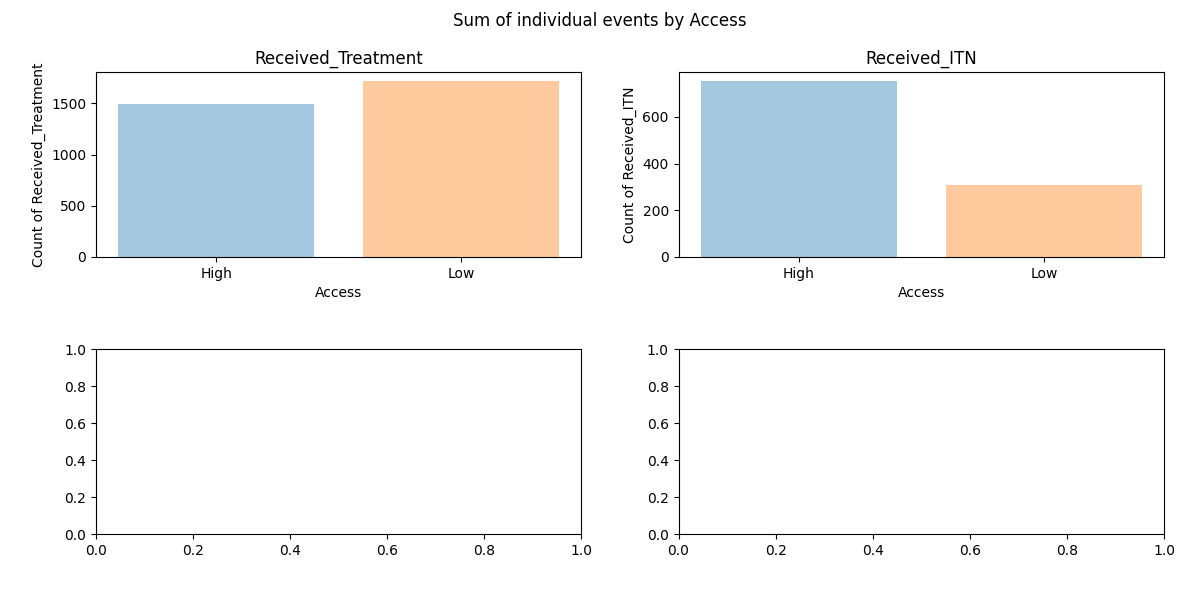
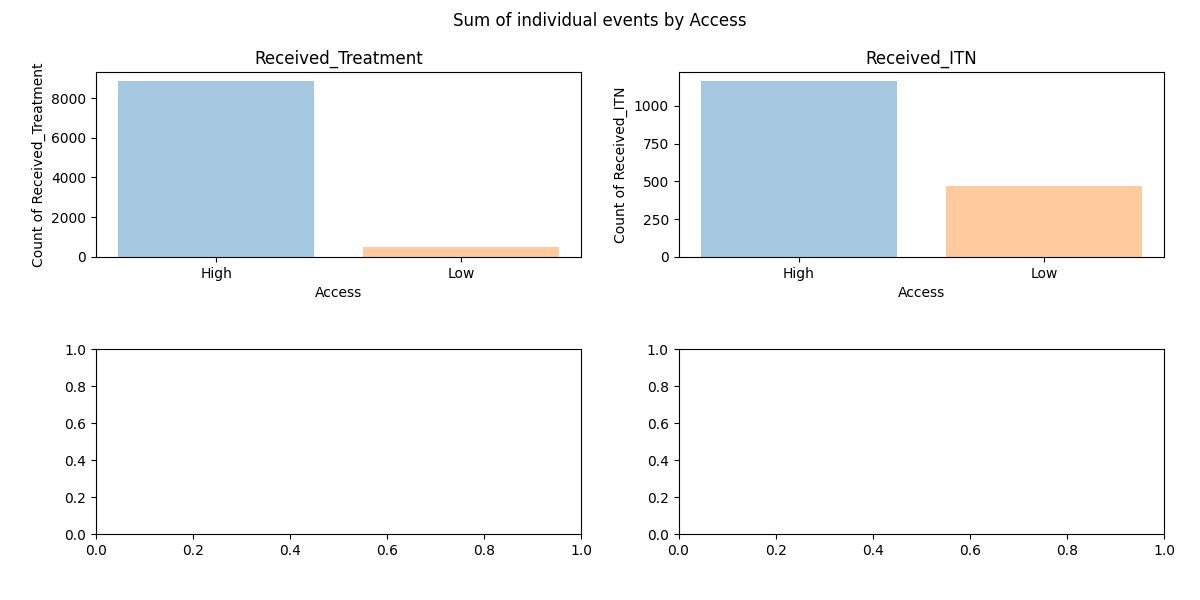
week 8 edits to readme (#13)

Changed region(s): [[0.0308, 0.12, 0.555, 0.42], [0.0308, 0.21, 0.0925, 0.3], [0.0308, 0.33, 0.0925, 0.39]]

diff --git a/analyze_exampleSim_w8.py b/analyze_exampleSim_w8.py
@@ -10,7 +10,7 @@ SetupParser.default_block = 'HPC'
 
 user = os.getlogin()  # user initials
 expt_name = f'{user}_FE_2022_example_w8b'
-expt_id = '048f5da6-6fda-ec11-a9f8-b88303911bc1'  ## change expt_id
+expt_id = '27cf3849-f1f2-ec11-a9f9-b88303911bc1'  ## change expt_id
 working_dir = os.path.join(os.getcwd(), 'simulation_outputs')
 
 
@@ -51,7 +51,7 @@ def plot_summary_report(sweep_variables, ip_name, ipfilter):
     df['date'] = df.apply(lambda x: datetime.date(int(x['year']), int(x['month']), 1), axis=1)
 
     # take mean over all Runs in report
-    df = df.groupby(['date', 'month', 'year'] + sweep_variables + ip_name)[channels_summary_report].agg(
+    df = df.groupby(['date', 'month', 'year'] + sweep_variables + [ip_name])[channels_summary_report].agg(
         np.mean).reset_index()
 
     # make summary report plot
@@ -75,37 +75,36 @@ def plot_summary_report(sweep_variables, ip_name, ipfilter):
     fig2.savefig(os.path.join(working_dir, expt_name, 'U5_IP_PfPR_ClinicalIncidence.png'))
 
 
-def plot_individual_events(event_list,ip_name, sweep_variables):
-    ip_name = ip_name[0]
-
+def plot_individual_events(event_list, ip_name, sweep_variables):
     # read in analyzed event data
     df = pd.read_csv(os.path.join(working_dir, expt_name, 'IndividualEvents_all_years.csv'))
     df = df.loc[df['Event_Name'].isin(event_list)]
 
     ## Filter to last year of simulation and one seed to reduce output
-    #df = df.loc[df['Time'] >= max(df['Time']) - 365]
-    df['date'] = df.apply( lambda x: datetime.date(int(x['Year']), 1, 1) + datetime.timedelta(x['Day'] - 1), axis=1)
+    # df = df.loc[df['Time'] >= max(df['Time']) - 365]
+    df['date'] = df.apply(lambda x: datetime.date(int(x['Year']), 1, 1) + datetime.timedelta(x['Day'] - 1), axis=1)
 
     # 'date'
-    adf = df.groupby(['Event_Name','Run_Number',ip_name] + sweep_variables )[['Individual_ID']].agg('count').reset_index().rename( columns={'Individual_ID': 'count'})
-    adf = adf.groupby(['Event_Name',ip_name] + sweep_variables)['count'].agg(np.mean).reset_index()
+    adf = df.groupby(['Event_Name', 'Run_Number', ip_name] + sweep_variables)[['Individual_ID']].agg(
+        'count').reset_index().rename(columns={'Individual_ID': 'count'})
+    adf = adf.groupby(['Event_Name', ip_name] + sweep_variables)['count'].agg(np.mean).reset_index()
     adf.sort_values(by=['count'])
 
     # make event plot
     fig3 = plt.figure('Events', figsize=(12, 3 * len(event_list)))
     fig3.subplots_adjust(hspace=0.5, left=0.08, right=0.97)
     fig3.suptitle(f'Sum of individual events by {ip_name}')
-    axes = [fig3.add_subplot(len(event_list), 2, x + 1) for x in range(len(event_list)*2)]
-    for ch, channel in enumerate(event_list) :
-        edf = adf.loc[adf['Event_Name']==channel]
+    axes = [fig3.add_subplot(len(event_list), 2, x + 1) for x in range(len(event_list) * 2)]
+    for ch, channel in enumerate(event_list):
+        edf = adf.loc[adf['Event_Name'] == channel]
         ax = axes[ch]
         ax.set_title(channel)
         ax.set_ylabel(f'Count of {channel}')
         ax.set_xlabel(f'Access')
-        for  ipval in adf[ip_name].unique():
-            pdf = edf.loc[edf[ip_name]==ipval]
+        for ipval in adf[ip_name].unique():
+            pdf = edf.loc[edf[ip_name] == ipval]
             if not pdf.empty:
-                ax.bar(pdf[ip_name].unique(), pdf['count'],  alpha=0.4)
+                ax.bar(pdf[ip_name].unique(), pdf['count'], alpha=0.4)
 
     fig3.savefig(os.path.join(working_dir, expt_name, 'Individual_Events.png'))
 
@@ -114,11 +113,12 @@ if __name__ == "__main__":
     SetupParser.init()
 
     sweep_variables = ['itn_coverage', 'Run_Number']
-    event_list = ['Received_Treatment','Received_ITN']
+    event_list = ['Received_Treatment', 'Received_ITN']
     channels_inset_chart = ['Statistical Population', 'New Clinical Cases', 'Adult Vectors', 'Infected']
-    ip_name = ['Access'] # takes single ip name only, otherwise needs to be dictionary
+    ip_name = 'Access'
     ipfilter = ['_accesslow', '_accesshigh']
 
+    start_year = 2020
     # analyzers to run
     analyzers = [
         InsetChartAnalyzer(expt_name=expt_name,
@@ -127,25 +127,24 @@ if __name__ == "__main__":
                            sweep_variables=sweep_variables),
         MonthlyPfPRAnalyzerU5(expt_name=expt_name,
                               working_dir=working_dir,
-                              start_year=2020,
-                              end_year=2021,
+                              start_year=start_year,
+                              end_year=start_year + 1,
                               sweep_variables=sweep_variables),
         MonthlyPfPRAnalyzerU5IP(expt_name=expt_name,
                                 working_dir=working_dir,
-                                start_year=2020,
-                                end_year=2021,
+                                start_year=start_year,
+                                end_year=start_year + 1,
                                 sweep_variables=sweep_variables,
                                 ipfilter='_accesslow'),
         MonthlyPfPRAnalyzerU5IP(expt_name=expt_name,
                                 working_dir=working_dir,
-                                start_year=2020,
-                                end_year=2021,
+                                start_year=start_year,
+                                end_year=start_year + 1,
                                 sweep_variables=sweep_variables,
                                 ipfilter='_accesshigh'),
         IndividualEventsAnalyzer(expt_name=expt_name,
                                  working_dir=working_dir,
-                                 start_year=2020,
-                                 #selected_year=2020,
+                                 start_year=start_year,
                                  sweep_variables=sweep_variables)
     ]
     am = AnalyzeManager(expt_id, analyzers=analyzers)

diff --git a/README.md b/README.md
@@ -1204,11 +1204,17 @@ EMOD How To's:
 
 ### Instructions
 
+#### PART I: Add IP's to demographics file
+
 <details><summary><span>Click here to expand</span></summary>
 <p>
 
+<<<<<<< HEAD
+- A new demographics file needs to be generated that defines individual properties.
+=======
 
 - First, a new demographics file needs to be generated that defines individual properties.
+>>>>>>> 60c24eb3b7fa52f17103b8c09b12d99fb3f2926a
 - Modify  `python generate_input_files.py` as instructed below:
   - add a function that takes existing demographics json file and add individual properties to it
     in this example, we group individuals into a high and a low access group.
@@ -1249,20 +1255,44 @@ EMOD How To's:
     ```
 - Run `python generate_input_files.py` to generate the new demographics json file `Ghana_demographics_wIP.json`, and inspect the file to check whether the IP's were successfully added.
   - Optional, do the same for the Ghana demographics    
-- Just having the IPs included in the demographics won't have any effect on the simulation if interventions or campaigns do not distinguish individuals by their properties!
-- Copy and rename both simulation scripts from the previous week, from week 7 to week 8, in addition a couple of modifications are required as instructed below:
-- __In both simulation scripts (burnin + pickup):__
+- Copy and rename both simulation scripts from week 7 to `run_exampleSim_w8a.py` and `run_exampleSim_w8b.py`
+- __In both simulation scripts:__
   - set `Disable_IP_Whitelist` to 1 (if not already set at 1)
     ```py
     cb.update_params({'Disable_IP_Whitelist' : 1})
     ```
-    _Reminder, you can look into the config.json file to see the default parameters and their values_
-  - update the demographics filename in `cb.update_params({
+  - Update the demographics filename in `cb.update_params({
     'Demographics_Filenames': [os.path.join('Namawala', 'Namawala_single_node_demographics.json')],` to read in `Namawala_single_node_demographics_wIP.json`
-  - Change exp_name to week 8 to keep track of simulations + weeks
-- __In burnin script__:
-  - No additional changes, you can already submit it to run 
-- __In pickup script__:
+  - Change `exp_name` to week 8 to keep track of simulations + weeks
+- Submit burnin experiment to run
+
+<details><summary><span>Check results</span></summary>
+<p>
+
+
+The new demographics file should include the text chunk shown below:
+
+
+![img](static/w8_IP_demographics_chunk.png)
+
+
+</p>
+</details>
+
+
+</p>
+</details>
+
+
+
+#### PART II: Account for IP's in intervention and reports
+
+<details><summary><span>Click here to expand</span></summary>
+<p>
+
+_Note: Having the IPs included in the demographics won't have any effect on the simulation if interventions or campaigns do not distinguish individuals by their properties._
+
+- Modify the `run_exampleSim_w8b.py` script:
   - Add a helper function to re-calculate coverage depending on access group
   - Modify the interventions (i.e.add_ITN) to customize coverage levels for low versus high access groups.
     - duplicate the `add_ITN` within the def `itn_intervention` function
@@ -1313,73 +1343,75 @@ EMOD How To's:
     ```
     </p>
     </details>
-  - add case management (see Week 3 for adding interventions)  
-    <details><summary><span>view modified case_management function</span></summary>
-    <p>
+    - add case management (see Week 3 for adding interventions)  
+      <details><summary><span>view modified case_management function</span></summary>
+      <p>
     
-    ```py
-    def case_management(cb, cm_cov_U5=0.7, cm_cov_adults=0.5, cm_cov_severe=0.85):
-        ## Assume high access group = 0.5 of total population
-        if cm_cov_U5 > 0.5:
-            cm_cov_U5_high = 1
-            cm_cov_U5_low = (cm_cov_U5 - 0.5) / (1 - 0.5)
-        else:
-            cm_cov_U5_low = 0
-            cm_cov_U5_high = cm_cov_U5 / 0.5
-        ## Optionally, depending on assumptions, do same for cm_cov_adults and cm_cov_severe
+      ```py
+      def case_management(cb, cm_cov_U5=0.7, cm_cov_adults=0.5, cm_cov_severe=0.85):
+          ## Assume high access group = 0.5 of total population
+          if cm_cov_U5 > 0.5:
+              cm_cov_U5_high = 1
+              cm_cov_U5_low = (cm_cov_U5 - 0.5) / (1 - 0.5)
+          else:
+              cm_cov_U5_low = 0
+              cm_cov_U5_high = cm_cov_U5 / 0.5
+          ## Optionally, depending on assumptions, do same for cm_cov_adults and cm_cov_severe
     
-        add_health_seeking(cb, start_day=0,
-                           targets=[{'trigger': 'NewClinicalCase', 'coverage': cm_cov_U5_low,
-                                     'agemin': 0, 'agemax': 5, 'seek': 1, 'rate': 0.3},
-                                    {'trigger': 'NewClinicalCase', 'coverage': cm_cov_adults,
-                                     'agemin': 5, 'agemax': 100, 'seek': 1, 'rate': 0.3},
-                                    {'trigger': 'NewSevereCase', 'coverage': cm_cov_severe,
-                                     'agemin': 0, 'agemax': 100, 'seek': 1, 'rate': 0.5}],
-                           drug=['Artemether', 'Lumefantrine'])
+          add_health_seeking(cb, start_day=0,
+                             targets=[{'trigger': 'NewClinicalCase', 'coverage': cm_cov_U5_low,
+                                       'agemin': 0, 'agemax': 5, 'seek': 1, 'rate': 0.3},
+                                      {'trigger': 'NewClinicalCase', 'coverage': cm_cov_adults,
+                                       'agemin': 5, 'agemax': 100, 'seek': 1, 'rate': 0.3},
+                                      {'trigger': 'NewSevereCase', 'coverage': cm_cov_severe,
+                                       'agemin': 0, 'agemax': 100, 'seek': 1, 'rate': 0.5}],
+                             drug=['Artemether', 'Lumefantrine'])
     
-        add_health_seeking(cb, start_day=0,
-                           targets=[{'trigger': 'NewClinicalCase', 'coverage': cm_cov_U5_high,
-                                     'agemin': 0, 'agemax': 5, 'seek': 1, 'rate': 0.3},
-                                    {'trigger': 'NewClinicalCase', 'coverage': cm_cov_adults,
-                                     'agemin': 5, 'agemax': 100, 'seek': 1, 'rate': 0.3},
-                                    {'trigger': 'NewSevereCase', 'coverage': cm_cov_severe,
-                                     'agemin': 0, 'agemax': 100, 'seek': 1, 'rate': 0.5}],
-                           drug=['Artemether', 'Lumefantrine'])
+          add_health_seeking(cb, start_day=0,
+                             targets=[{'trigger': 'NewClinicalCase', 'coverage': cm_cov_U5_high,
+                                       'agemin': 0, 'agemax': 5, 'seek': 1, 'rate': 0.3},
+                                      {'trigger': 'NewClinicalCase', 'coverage': cm_cov_adults,
+                                       'agemin': 5, 'agemax': 100, 'seek': 1, 'rate': 0.3},
+                                      {'trigger': 'NewSevereCase', 'coverage': cm_cov_severe,
+                                       'agemin': 0, 'agemax': 100, 'seek': 1, 'rate': 0.5}],
+                             drug=['Artemether', 'Lumefantrine'])
     
-        return {'cm_cov_U5': cm_cov_U5,
-                'cm_cov_adults': cm_cov_adults,
-                'cm_cov_severe': cm_cov_severe}
-    ```
-    </p>
-    </details>  
-  - For simplicity, set all intervention coverage levels >0.5 (due to the assumotions on coverage access made in this example)
-  - Add additional reporters to be able to analyze results for both groups
-    ```py
-     "Report_Event_Recorder_Individual_Properties": ['Access']
-    ```
-    ```py
-     sim_start_year = 2000 + pull_year # for convenience to read simulation times
-     add_summary_report(cb, start=1+365*i, interval=30,
-                   duration_days=365,
-                   age_bins=[0.25, 5, 120],
-                   description=f'Monthly_U5_accesslow{sim_start_year+i}',
-                   ipfilter = 'Access:Low')
-     add_summary_report(cb, start=1+365*i, interval=30,
-               duration_days=365,
-               age_bins=[0.25, 5, 120],
-               description=f'Monthly_U5_accesshigh{sim_start_year+i}',
-               ipfilter = 'Access:High')  
-    ```
-     - _Note: once we made sure it is doing what it is supposed to do, 
-       keeping reporters per group might not always be needed, depending on the research question. 
-       In the EMOD How To example, StudyCohort is defined using IP's and in that case having reports for each study group is one of the reasons to use IP's_
-- Once the burnin simulation finished, update exp_id in the pick-up simulation script and run the simulation
-- Run analyzer script for Week 8 `analyze_exampleSim_w8.py` for the simulation that was just run
+          return {'cm_cov_U5': cm_cov_U5,
+                  'cm_cov_adults': cm_cov_adults,
+                  'cm_cov_severe': cm_cov_severe}
+      ```
+      </p>
+      </details>  
+    - For simplicity, set all intervention coverage levels >0.5 (due to the assumotions on coverage access made in this example)
+    - Add additional reporters to be able to analyze results for both groups
+      ```py
+       "Report_Event_Recorder_Individual_Properties": ['Access']
+      ```
+      ```py
+       sim_start_year = 2000 + pull_year # for convenience to read simulation times
+       add_summary_report(cb, start=1+365*i, interval=30,
+                     duration_days=365,
+                     age_bins=[0.25, 5, 120],
+                     description=f'Monthly_U5_accesslow{sim_start_year+i}',
+                     ipfilter = 'Access:Low')
+       add_summary_report(cb, start=1+365*i, interval=30,
+                 duration_days=365,
+                 age_bins=[0.25, 5, 120],
+                 description=f'Monthly_U5_accesshigh{sim_start_year+i}',
+                 ipfilter = 'Access:High')  
+      ```
+       - _Note: once we made sure it is doing what it is supposed to do, 
+         keeping reporters per group might not always be needed, depending on the research question. 
+         In the EMOD How To example, StudyCohort is defined using IP's and in that case having reports for each study group is one of the reasons to use IP's_
+    
+- Once the burnin simulation finished, update exp_id in `run_exampleSim_w8b.py`
+  - Update ModBuilder to have only single coverage levels for the interventions included in your simulation (otherwise result plots will look messy)
+- Run the pickup experiment (`run_exampleSim_w8b.py`)
+- Run the analyzer script for Week 8 `analyze_exampleSim_w8.py` 
 - Inspect results, the generated plots as well as IndividualEvents
 - Options for further exploration:
-  - Rerun the pickup simulation with different coverage levels
   - Rerun burnin + pickup simulation with different ratio between low and high access group
-- Think about what other individual properties would be useful and how these could be implemented
+- Think about what other individual properties would be useful and how these could be implemented.
 
 <details><summary><span>Check results</span></summary>
 <p>
